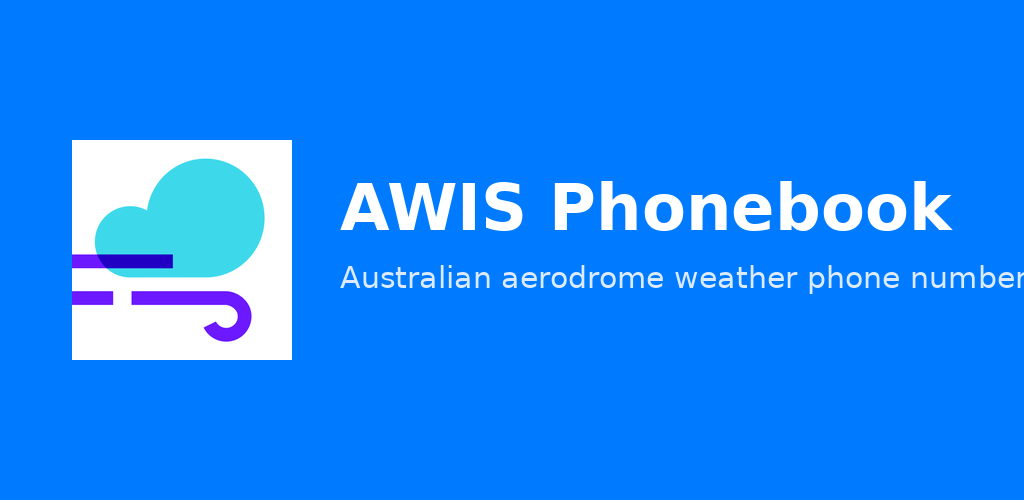
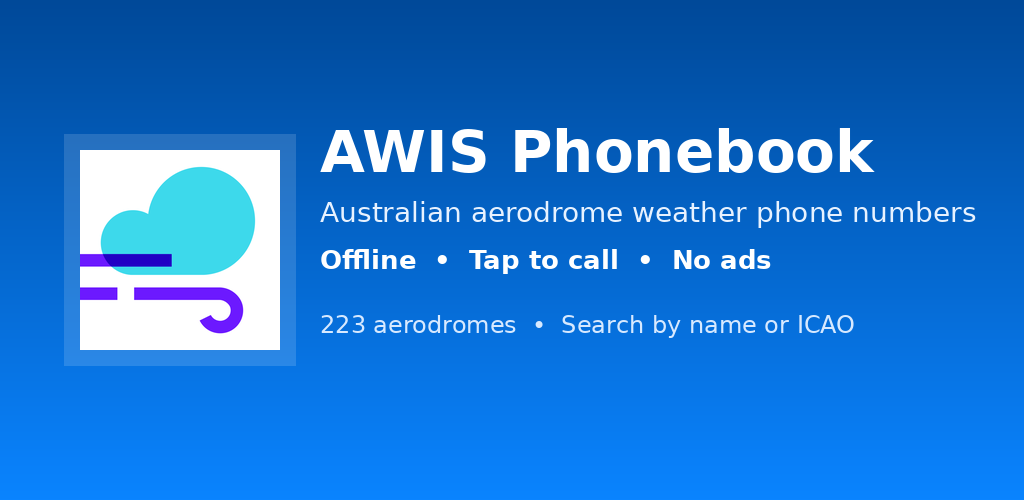
feat: update app metadata and descriptions for AWIS Phonebook, including new screenshots and improved layout

diff --git a/scripts/generate-play-screenshots.py b/scripts/generate-play-screenshots.py
@@ -15,11 +15,13 @@ OUT_DIR = ROOT / "fastlane/metadata/android/en-AU/images"
 
 WIDTH = 1080
 HEIGHT = 1920
-HEADER_H = 160
+STATUS_H = 56
+HEADER_H = 128
+CAPTION_H = 112
 SEARCH_H = 96
 PADDING = 48
-CARD_H = 132
-CARD_GAP = 16
+CARD_H = 136
+CARD_GAP = 18
 
 
 def load_font(size: int, bold: bool = False) -> ImageFont.FreeTypeFont | ImageFont.ImageFont:
@@ -37,6 +39,37 @@ def aerodromes() -> list[dict[str, str]]:
     return json.loads(DATA_PATH.read_text(encoding="utf-8"))
 
 
+def truncate(draw: ImageDraw.ImageDraw, text: str, font: ImageFont.ImageFont, max_width: float) -> str:
+    if draw.textlength(text, font=font) <= max_width:
+        return text
+    trimmed = text
+    while trimmed and draw.textlength(f"{trimmed}…", font=font) > max_width:
+        trimmed = trimmed[:-1]
+    return f"{trimmed}…" if trimmed else text
+
+
+def draw_status_bar(draw: ImageDraw.ImageDraw, *, dark: bool) -> None:
+    bg = "#000000" if dark else "#f2f2f7"
+    fg = "#ffffff" if dark else "#111111"
+    draw.rectangle((0, 0, WIDTH, STATUS_H), fill=bg)
+    draw.text((PADDING, 14), "9:41", font=load_font(24, bold=True), fill=fg)
+    right = "5G  100%"
+    right_w = draw.textlength(right, font=load_font(22))
+    draw.text((WIDTH - PADDING - right_w, 16), right, font=load_font(22), fill=fg)
+
+
+def draw_caption(draw: ImageDraw.ImageDraw, text: str, *, accent: str) -> None:
+    y0 = HEIGHT - CAPTION_H
+    draw.rectangle((0, y0, WIDTH, HEIGHT), fill=accent)
+    font = load_font(30, bold=True)
+    wrapped = text
+    text_w = draw.textlength(wrapped, font=font)
+    if text_w > WIDTH - 64:
+        font = load_font(26, bold=True)
+        text_w = draw.textlength(wrapped, font=font)
+    draw.text(((WIDTH - text_w) / 2, y0 + 38), wrapped, font=font, fill="#ffffff")
+
+
 def draw_card(
     draw: ImageDraw.ImageDraw,
     y: int,
@@ -48,25 +81,46 @@ def draw_card(
     border: str,
     text: str,
     muted: str,
+    accent: str,
+    highlight: bool = False,
 ) -> None:
     x0 = PADDING
     x1 = WIDTH - PADDING
-    draw.rounded_rectangle((x0, y, x1, y + CARD_H), radius=24, fill=bg, outline=border, width=2)
-    draw.text((x0 + 28, y + 22), name, font=load_font(34, bold=True), fill=text)
-    draw.text((x0 + 28, y + 72), identifier, font=load_font(28), fill=muted)
-    phone_w = draw.textlength(phone, font=load_font(28))
-    draw.text((x1 - 28 - phone_w, y + 72), phone, font=load_font(28), fill=muted)
+    card_border = accent if highlight else border
+    draw.rounded_rectangle((x0, y, x1, y + CARD_H), radius=24, fill=bg, outline=card_border, width=3 if highlight else 2)
+
+    name_font = load_font(34, bold=True)
+    max_name_w = x1 - x0 - 56
+    draw.text((x0 + 28, y + 20), truncate(draw, name, name_font, max_name_w), font=name_font, fill=text)
+    draw.text((x0 + 28, y + 74), identifier, font=load_font(28, bold=True), fill=accent if highlight else muted)
+
+    phone_font = load_font(28)
+    phone_w = draw.textlength(phone, font=phone_font)
+    draw.text((x1 - 28 - phone_w, y + 74), phone, font=phone_font, fill=muted)
+
+    if highlight:
+        callout = "Tap to call"
+        callout_font = load_font(22, bold=True)
+        callout_w = draw.textlength(callout, font=callout_font)
+        draw.rounded_rectangle(
+            (x1 - 34 - callout_w - 20, y + 18, x1 - 34, y + 52),
+            radius=14,
+            fill=accent,
+        )
+        draw.text((x1 - 34 - callout_w - 10, y + 24), callout, font=callout_font, fill="#ffffff")
 
 
 def draw_screen(
     *,
     query: str,
     items: list[dict[str, str]],
+    caption: str,
     dark: bool = False,
+    highlight_first: bool = False,
 ) -> Image.Image:
     if dark:
-        canvas = "#111111"
-        header = "#1c1c1e"
+        canvas = "#000000"
+        header = "#0a84ff"
         header_text = "#ffffff"
         search_bg = "#1c1c1e"
         search_border = "#3a3a3c"
@@ -75,9 +129,10 @@ def draw_screen(
         card_bg = "#1c1c1e"
         card_border = "#3a3a3c"
         text = "#ffffff"
-        muted = "#8e8e93"
+        muted = "#aeaeb2"
+        accent = "#0a84ff"
     else:
-        canvas = "#ffffff"
+        canvas = "#f2f2f7"
         header = "#007aff"
         header_text = "#ffffff"
         search_bg = "#ffffff"
@@ -88,17 +143,20 @@ def draw_screen(
         card_border = "#d1d1d6"
         text = "#111111"
         muted = "#6c6c70"
+        accent = "#007aff"
 
+    content_bottom = HEIGHT - CAPTION_H
     img = Image.new("RGB", (WIDTH, HEIGHT), canvas)
     draw = ImageDraw.Draw(img)
 
-    draw.rectangle((0, 0, WIDTH, HEADER_H), fill=header)
+    draw_status_bar(draw, dark=dark)
+    draw.rectangle((0, STATUS_H, WIDTH, STATUS_H + HEADER_H), fill=header)
     title = "AWIS Phonebook"
-    title_font = load_font(40, bold=True)
+    title_font = load_font(38, bold=True)
     title_w = draw.textlength(title, font=title_font)
-    draw.text(((WIDTH - title_w) / 2, 78), title, font=title_font, fill=header_text)
+    draw.text(((WIDTH - title_w) / 2, STATUS_H + 42), title, font=title_font, fill=header_text)
 
-    search_y = HEADER_H + PADDING
+    search_y = STATUS_H + HEADER_H + PADDING
     draw.rounded_rectangle(
         (PADDING, search_y, WIDTH - PADDING, search_y + SEARCH_H),
         radius=24,
@@ -111,8 +169,8 @@ def draw_screen(
     draw.text((PADDING + 28, search_y + 28), search_label, font=load_font(32), fill=search_color)
 
     y = search_y + SEARCH_H + PADDING
-    for item in items:
-        if y + CARD_H > HEIGHT - PADDING:
+    for index, item in enumerate(items):
+        if y + CARD_H > content_bottom - PADDING:
             break
         draw_card(
             draw,
@@ -124,37 +182,79 @@ def draw_screen(
             border=card_border,
             text=text,
             muted=muted,
+            accent=accent,
+            highlight=highlight_first and index == 0,
         )
         y += CARD_H + CARD_GAP
 
+    draw_caption(draw, caption, accent=header if not dark else accent)
+    return img
+
+
+def vertical_gradient(size: tuple[int, int], top: str, bottom: str) -> Image.Image:
+    width, height = size
+    top_rgb = tuple(int(top[i : i + 2], 16) for i in (1, 3, 5))
+    bottom_rgb = tuple(int(bottom[i : i + 2], 16) for i in (1, 3, 5))
+    img = Image.new("RGB", size)
+    pixels = img.load()
+    for y in range(height):
+        ratio = y / max(height - 1, 1)
+        color = tuple(int(top_rgb[i] + (bottom_rgb[i] - top_rgb[i]) * ratio) for i in range(3))
+        for x in range(width):
+            pixels[x, y] = color
     return img
 
 
 def make_feature_graphic() -> Image.Image:
     width, height = 1024, 500
-    img = Image.new("RGB", (width, height), "#007aff")
+    img = vertical_gradient((width, height), "#004999", "#0a84ff")
     draw = ImageDraw.Draw(img)
 
     icon = Image.open(ICON_PATH).convert("RGBA")
-    icon_size = 220
+    icon_size = 200
     icon = icon.resize((icon_size, icon_size), Image.Resampling.LANCZOS)
-    img.paste(icon, (72, (height - icon_size) // 2), icon)
+    icon_bg = Image.new("RGBA", (icon_size + 32, icon_size + 32), (255, 255, 255, 36))
+    icon_bg.paste(icon, (16, 16), icon)
+    img.paste(icon_bg, (64, (height - icon_bg.size[1]) // 2), icon_bg)
 
-    title_font = load_font(64, bold=True)
-    subtitle_font = load_font(30)
-    draw.text((340, 170), "AWIS Phonebook", font=title_font, fill="#ffffff")
+    x_text = 320
+    draw.text((x_text, 118), "AWIS Phonebook", font=load_font(58, bold=True), fill="#ffffff")
     draw.text(
-        (340, 260),
-        "Australian aerodrome weather phone numbers — offline",
-        font=subtitle_font,
-        fill="#dbeafe",
+        (x_text, 196),
+        "Australian aerodrome weather phone numbers",
+        font=load_font(28),
+        fill="#e8f2ff",
+    )
+    draw.text(
+        (x_text, 244),
+        "Offline  •  Tap to call  •  No ads",
+        font=load_font(26, bold=True),
+        fill="#ffffff",
+    )
+    draw.text(
+        (x_text, 310),
+        "223 aerodromes  •  Search by name or ICAO",
+        font=load_font(24),
+        fill="#d7e9ff",
     )
     return img
 
 
 def make_icon() -> Image.Image:
     icon = Image.open(ICON_PATH).convert("RGBA")
-    return icon.resize((512, 512), Image.Resampling.LANCZOS)
+    canvas = Image.new("RGBA", (512, 512), (255, 255, 255, 255))
+    icon = icon.resize((460, 460), Image.Resampling.LANCZOS)
+    canvas.paste(icon, (26, 26), icon)
+    return canvas
+
+
+def filter_items(data: list[dict[str, str]], query: str) -> list[dict[str, str]]:
+    needle = query.lower()
+    return [
+        item
+        for item in data
+        if needle in item["name"].lower() or needle in item["identifier"].lower()
+    ]
 
 
 def main() -> None:
@@ -163,15 +263,55 @@ def main() -> None:
     phone_dir.mkdir(parents=True, exist_ok=True)
 
     screens = [
-        ("01_browse.png", "", data[:8], False),
-        ("02_search_sydney.png", "Sydney", [item for item in data if "sydney" in item["name"].lower()][:6], False),
-        ("03_search_melbourne_dark.png", "Melbourne", [item for item in data if "melbourne" in item["name"].lower()][:6], True),
+        (
+            "01_browse.png",
+            "",
+            data[:7],
+            False,
+            "223 aerodromes across Australia — no internet needed",
+            False,
+        ),
+        (
+            "02_search_name.png",
+            "Sydney",
+            filter_items(data, "Sydney")[:4],
+            False,
+            "Search by aerodrome name",
+            True,
+        ),
+        (
+            "03_search_icao.png",
+            "YSSY",
+            filter_items(data, "YSSY")[:3],
+            False,
+            "Or jump straight to the ICAO code",
+            True,
+        ),
+        (
+            "04_dark_mode.png",
+            "Melbourne",
+            filter_items(data, "Melbourne")[:4],
+            True,
+            "Comfortable in light or dark mode",
+            False,
+        ),
     ]
 
-    for filename, query, items, dark in screens:
+    for filename, query, items, dark, caption, highlight_first in screens:
         if not items and query:
             items = data[:6]
-        draw_screen(query=query, items=items, dark=dark).save(phone_dir / filename, optimize=True)
+        draw_screen(
+            query=query,
+            items=items,
+            caption=caption,
+            dark=dark,
+            highlight_first=highlight_first,
+        ).save(phone_dir / filename, optimize=True)
+
+    for stale in ("02_search_sydney.png", "03_search_melbourne_dark.png"):
+        stale_path = phone_dir / stale
+        if stale_path.exists():
+            stale_path.unlink()
 
     make_feature_graphic().save(OUT_DIR / "featureGraphic.png", optimize=True)
     make_icon().save(OUT_DIR / "icon.png", optimize=True)
